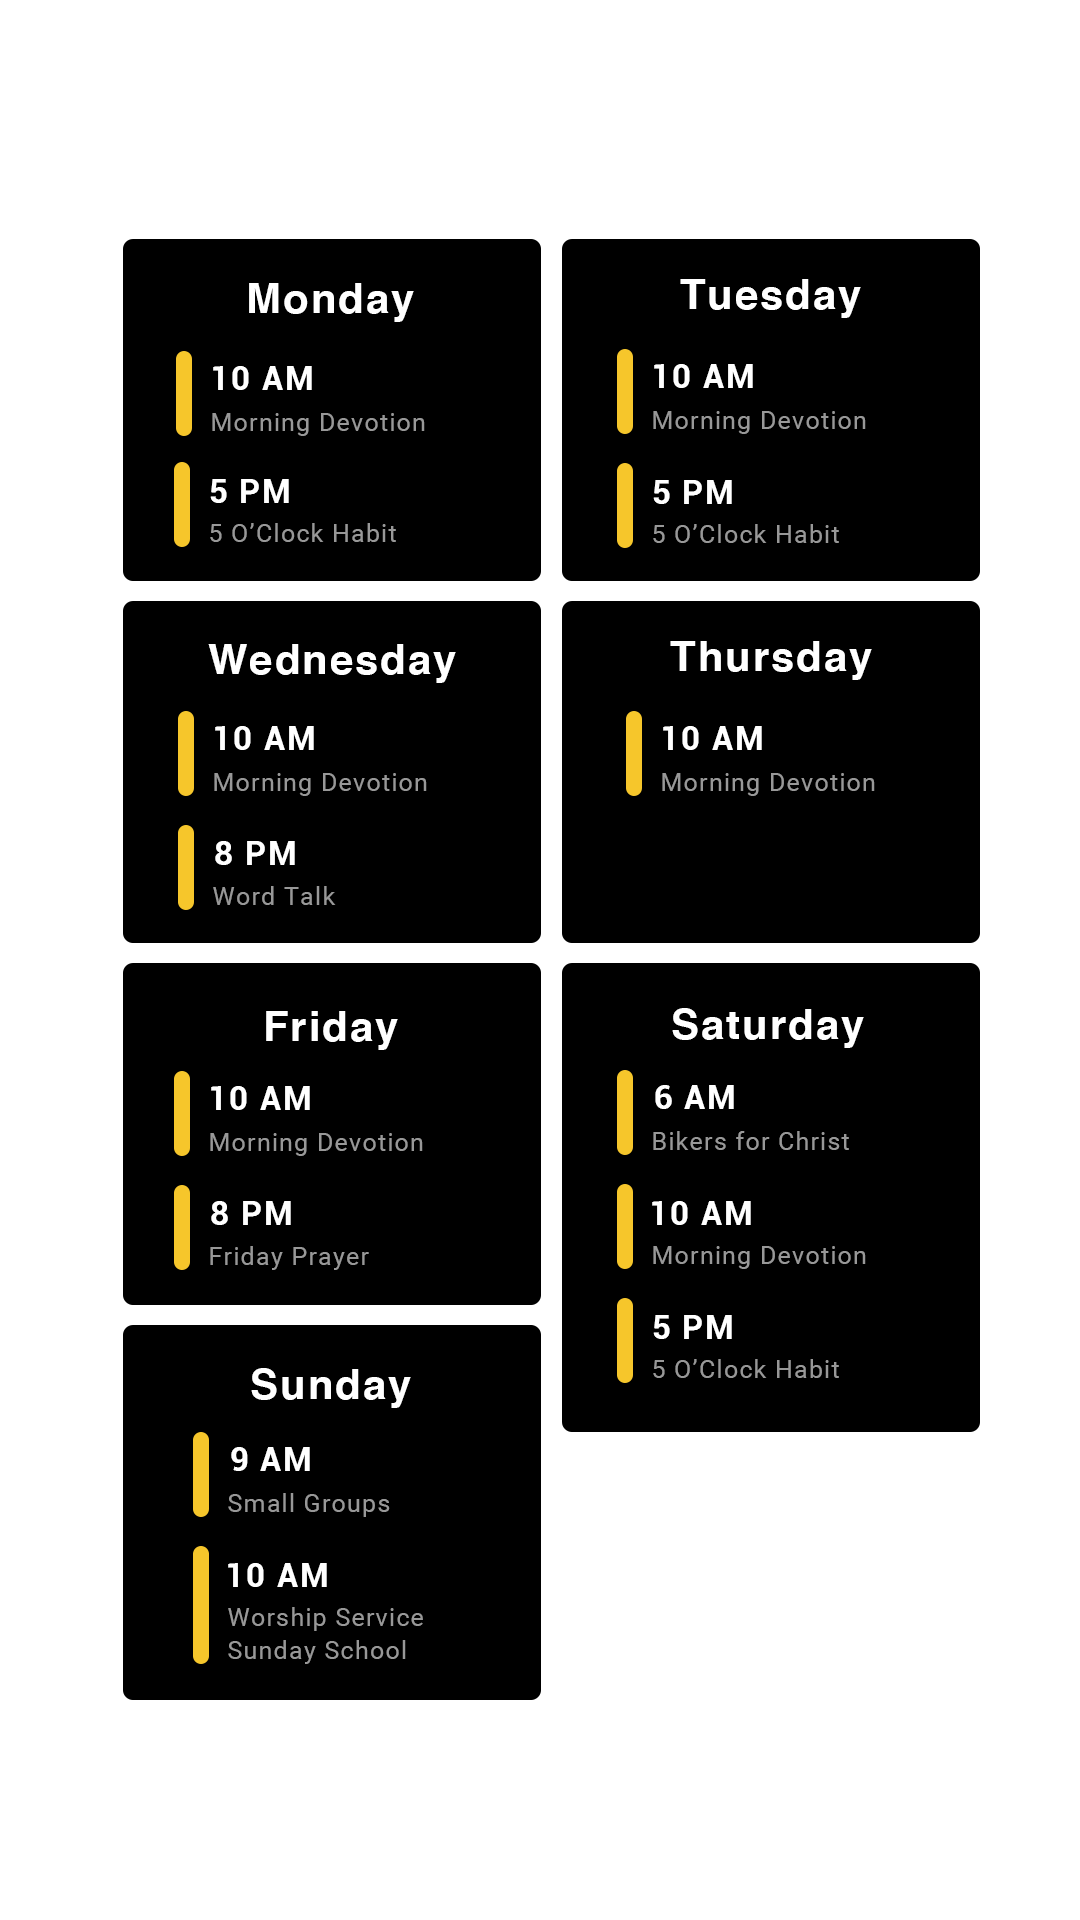
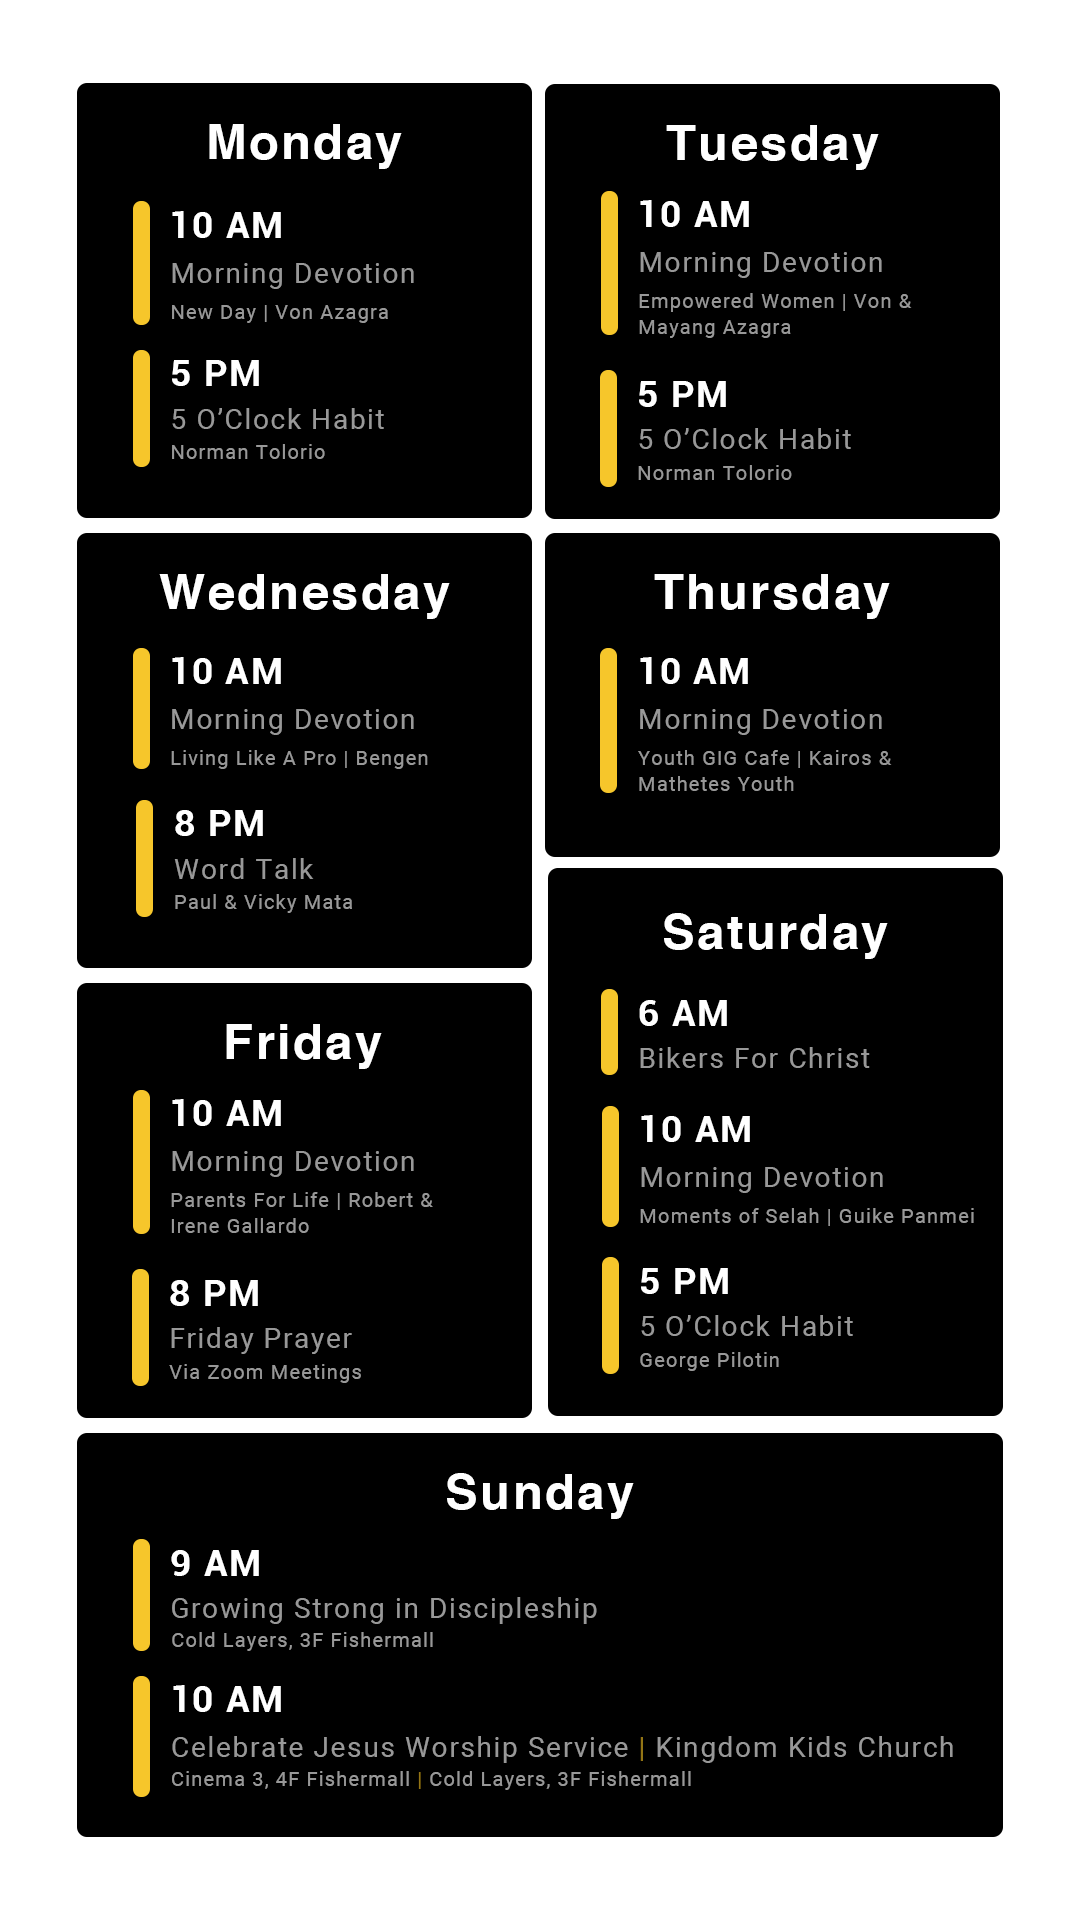
update

diff --git a/style.css b/style.css
@@ -113,7 +113,7 @@ width: 86%;
 
 .welcome-img{
   border-radius: 10px;
-  width: 560px;
+  width: 89%;
 }
 
 .spacer{
@@ -134,12 +134,12 @@ width: 86%;
     color: #ffffff;
     font-size: 20px;
     margin-top: -10px;
-    width: 500px;
+    width: auto;
 }
 
 .bar1{
     height: 2px;
-    width: 90%;
+    width: auto;
     background-color: rgb(245, 199, 44);
     margin-left: auto;  
     margin-right: auto;  
@@ -161,13 +161,14 @@ width: 86%;
 
 .sched-container{
     width: 1100px;
-    height: 520px;
+    height: auto;
     margin: auto;
     margin-top: 50px;
 }
 
 .schedule{
     width: 1100px;
+    height: auto;
     margin: auto;
     border-radius: 10px;
     transition: 0.40s;
@@ -515,11 +516,12 @@ a:link{
   .table-1-tablet{
   margin: auto;
   margin-top: 50px;
+  width: 90%;
 }
 
 .welcome-img{
   border-radius: 10px;
-  width: 500px;
+  width: 97%;
 }
 
 .spacer-tab{
@@ -540,7 +542,7 @@ a:link{
     color: #ffffff;
     font-size: 13px;
     margin-top: -10px;
-    width: 350px;
+    width: 80%;
 }
 
 .bar1{
@@ -566,7 +568,7 @@ a:link{
 
 .sched-container{
     width: 690px;
-    height: 320px;
+    height: auto;
     margin: auto;
     margin-top: 20px;
 }
@@ -980,12 +982,16 @@ div.scrollmenu-mobile video{
 
 .sched-container{
   width: 100%;
-  height:100%;
+    height: auto;
 }
 
 .schedule{
   width: 100%;
   border-radius: 0px;
+}
+
+.schedule:hover{
+  transform: scale(1);
 }
 
 .blackbackground-tablet{

diff --git a/index.html b/index.html
@@ -73,7 +73,7 @@
             <p class="daily-sched">Daily Schedule</p>
 
             <div class="sched-container">
-                <img class="schedule" src="static-img/schedule/Schedule.jpg"></img>
+                <img class="schedule" src="static-img/schedule/schedule .png"></img>
             </div>
 
             <div class="black-background" id="ministries">
@@ -188,7 +188,7 @@
             <p class="daily-sched">Daily Schedule</p>
 
             <div class="sched-container">
-                <img class="schedule" src="static-img/schedule/Schedule.jpg"></img>
+                <img class="schedule" src="static-img/schedule/schedule .png"></img>
             </div>
 
             <div class="blackbackground-tablet">
